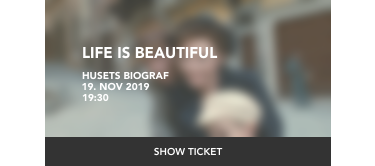
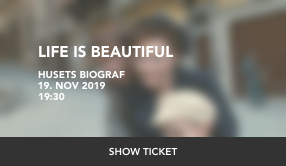
fixed ticket pages

diff --git a/style.css b/style.css
@@ -203,7 +203,7 @@ body {
 }
 
 nav {
-    margin: 0 7.5vw;
+    margin: 0 7.5tvw;
 }
 
 nav a {
@@ -438,17 +438,48 @@ label[for="nav-trigger"] {
 /*------TICKETS PAGE---------*/
 
 .ticket-img {
-    margin-left: 0;
-    width: 10vw;;
+/*
+    margin-left: 30vw ;
+    margin-top: 400px;
+*/
+
+}
+.ticket-container h2{
+    margin-top: 14vh;
+    height: 5vh;
+    background-color: var(--green);
+    text-align: center;
+    padding-top: 1vh;
+
+    font-family: "Avenir";
+    color: var(--black);
+    font-size: 5vw;
+/*
+    margin-bottom: 5vw;
+    padding: 0 7.5vw;
+*/
+
 }
 
-.ticket-container {
+a img{
+    padding-top: 5vh;
+    padding-left: 5.5vh;
+}
+
+#tickets-title {
     height: 100vh;
+    margin-top: vh;
     width: 100vw;
-    padding: 10vw;
-    z-index: 0;
-    box-sizing: border-box;
-    background-color: blue;
+    background-color: var(--white);
+}
+
+#showing-ticket {
+    height: 100vh;
+}
+
+.ticket {
+    height: auto;
+    width: 100%;
 }
 
 
@@ -549,16 +580,6 @@ label[for="nav-trigger"] {
     text-transform: uppercase;
     font-size: 1.5em;
 }
-
-/*
-#ticket-count-wrapper {
-    display: grid;
-    grid-template-columns: 1fr 1fr 1fr;
-    height: 16.2vh;
-    margin-bottom: 16.2vh;
-    background-color: aqua;
-}
-*/
 
 /* The Modal (background) */
 .modal {

diff --git a/show-ticket.html b/show-ticket.html
@@ -29,16 +29,13 @@
 
     <div class="site-wrap">
 
-    <section class="ticket-container">
-         <h2>Your tickets</h2>
+        <section class="ticket-container">
+            <h2>Your tickets</h2>
 
-          <div id="tickets-title">
+            <div id="showing-ticket">
+                <img class="ticket" alt="Huset" src="images/tickett.png">
 
-              <a class="ticket-img" href="show-ticket.html"><img  alt="Dahl" src="images/dahl.png"></a>
-
-            <a class="ticket-img" href="show-ticket.html"><img  alt="life" src="images/life.png"></a>
-
-          </div>
+            </div>
 
 
         </section>
